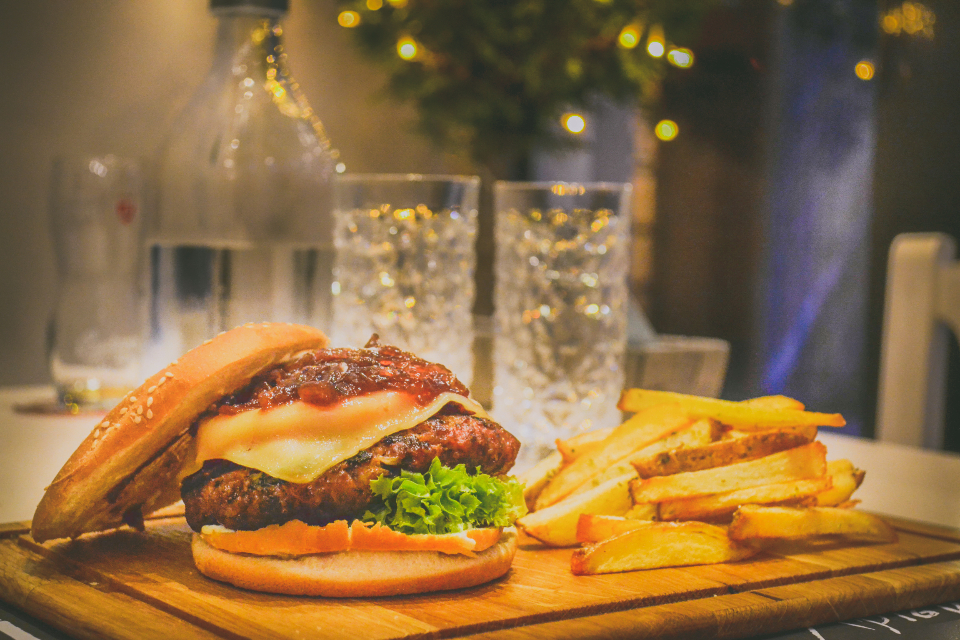
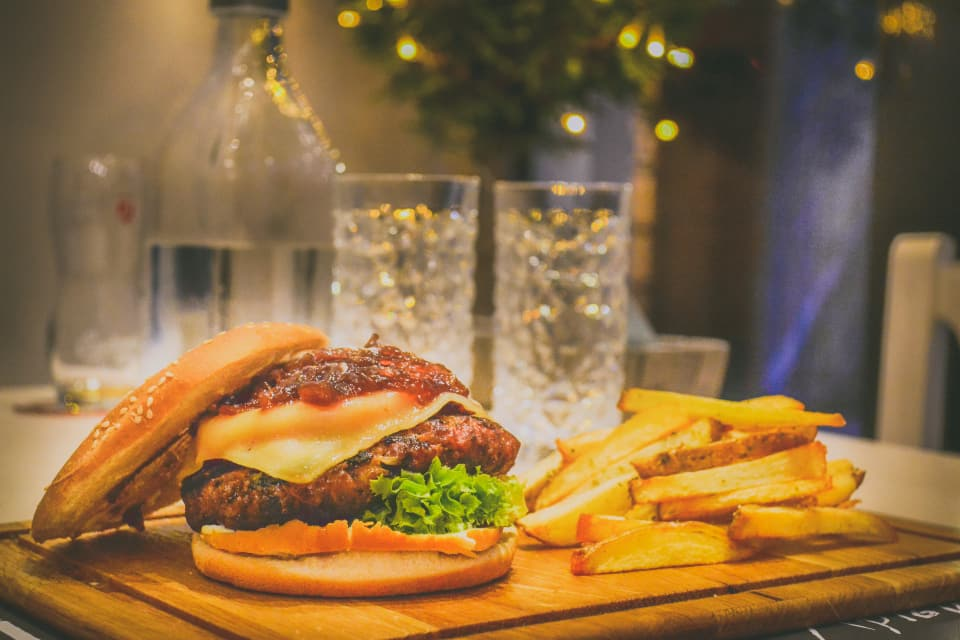
Small fixes on the register and product detail page
- minified the background image

diff --git a/diniti/src/app/screens/global/product-details/product-details.page.html b/diniti/src/app/screens/global/product-details/product-details.page.html
@@ -35,7 +35,7 @@
         </div>
         <p>Prijs/st: <a>{{ product?.price | currency:'EUR' }}</a></p>
         <p class="bold-text">Beschrijving</p>
-        <p>{{ product?.description }}</p>
+        <p>{{ product?.description ?? '--'}}</p>
       </div>
     </div>
 

diff --git a/diniti/src/app/screens/public/register/register.page.scss b/diniti/src/app/screens/public/register/register.page.scss
@@ -29,7 +29,7 @@ ion-content {
     max-width: 330px;
     margin-left: auto;
     margin-right: auto;
-
+    margin-bottom: 70px;
     .input-fields {
       margin-top: 80px;
 
